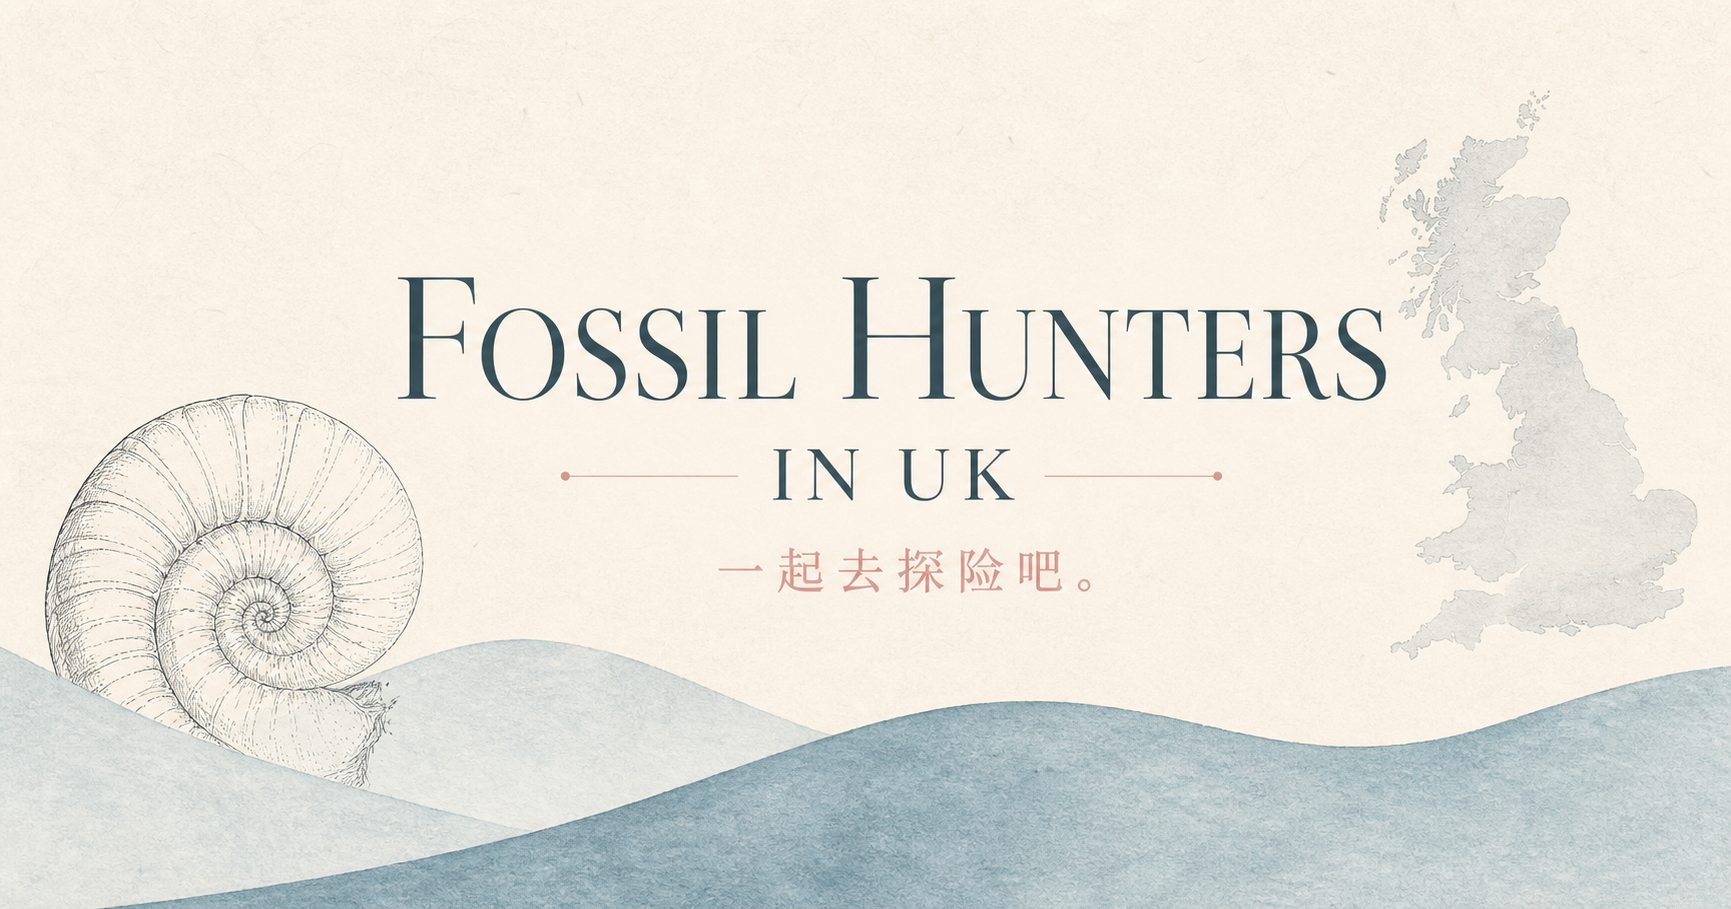
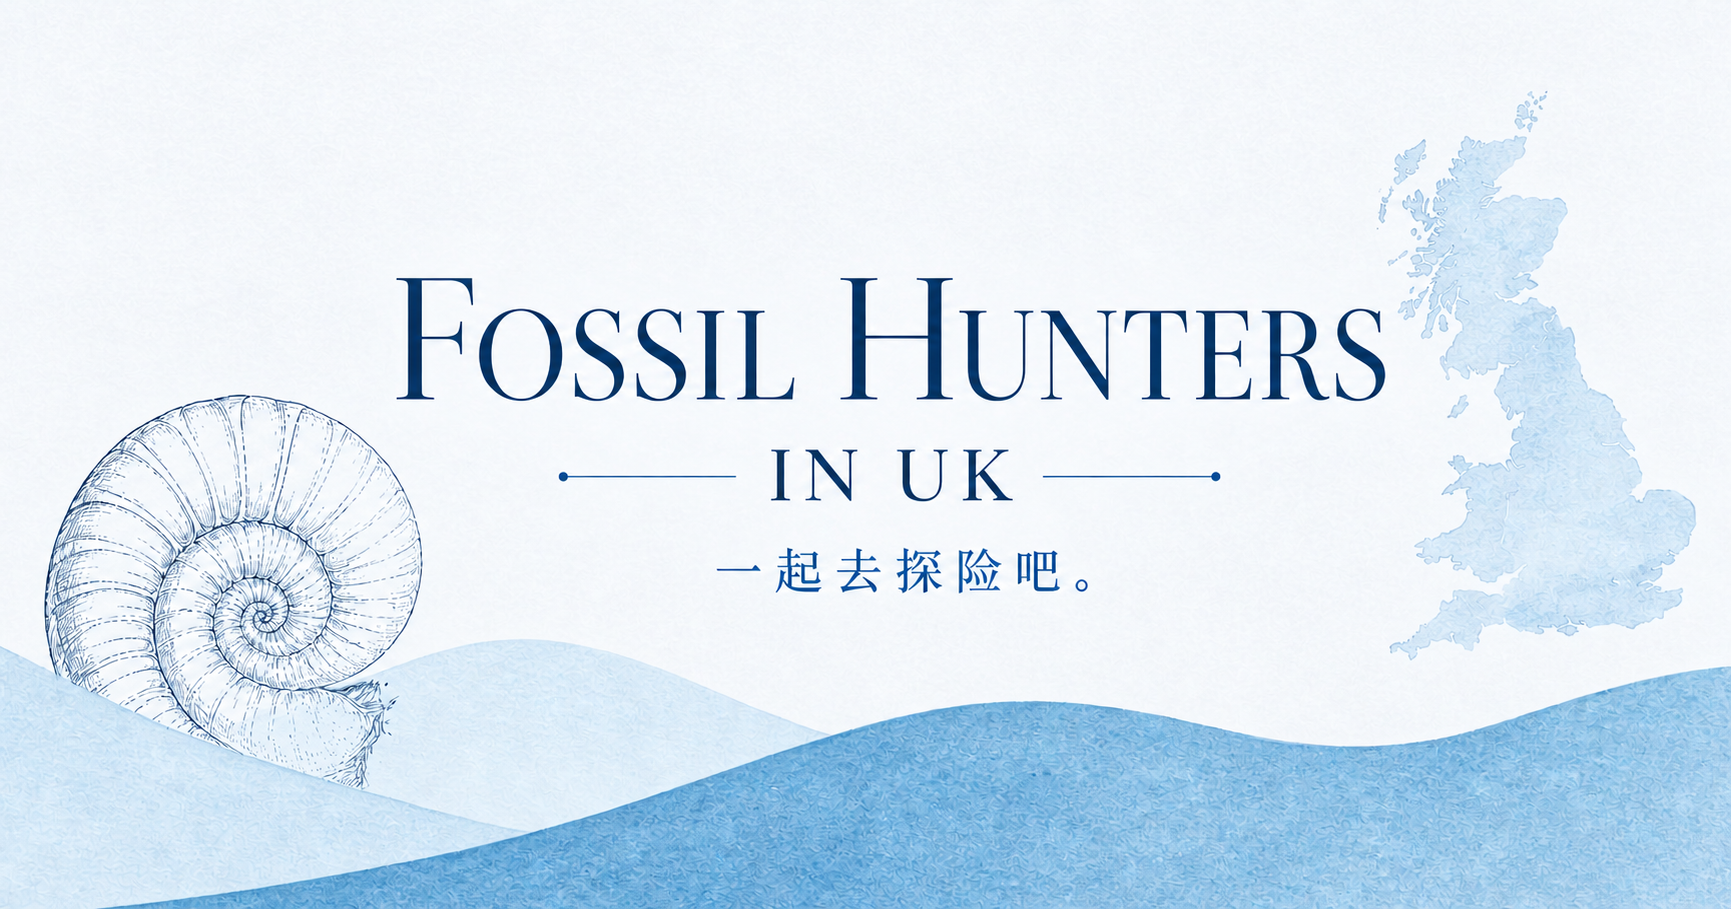
Switch site to blue and white palette

diff --git a/app/globals.css b/app/globals.css
@@ -7871,3 +7871,169 @@ input:focus-visible {
   .overview-title .fossil-title { font-size: 40px; }
   .eyebrow { margin-bottom: 12px; font-size: 9px; }
 }
+
+/* Blue-and-white field guide palette. */
+:root {
+  --paper: #f7fbff;
+  --paper-deep: #ffffff;
+  --ink: #173f67;
+  --ink-soft: #69839d;
+  --moss: #75acd4;
+  --sea: #e8f3fb;
+  --sea-deep: #bcdcf1;
+  --rust: #2f80c0;
+  --danger: #bd5f61;
+  --line: rgba(23, 63, 103, .16);
+}
+
+body {
+  background: #edf5fb;
+}
+
+.site-shell,
+.detail-view.detail-text-only,
+.museum-view {
+  background:
+    radial-gradient(circle at 18% 12%, rgba(23, 63, 103, .026) 0 1px, transparent 1.3px),
+    radial-gradient(circle at 74% 43%, rgba(47, 128, 192, .022) 0 1px, transparent 1.25px),
+    var(--paper);
+  background-size: 29px 31px, 37px 41px, auto;
+}
+
+.site-shell::before {
+  background:
+    repeating-linear-gradient(112deg, transparent 0 18px, rgba(23, 63, 103, .016) 18px 19px),
+    repeating-radial-gradient(circle at 20% 30%, rgba(23, 63, 103, .03) 0 .6px, transparent .8px 5px);
+}
+
+.topbar {
+  background: rgba(247, 251, 255, .94);
+}
+
+.alert-dot {
+  box-shadow: 0 0 0 4px rgba(47, 128, 192, .14);
+}
+
+.intro-screen::before {
+  background: #dceefa;
+}
+
+.intro-screen::after {
+  background: #acd2ea;
+}
+
+.intro-screen .dino-track {
+  background: linear-gradient(to bottom, transparent 61px, rgba(23, 63, 103, .075) 61px);
+}
+
+.intro-screen .dino-track::before {
+  background: rgba(23, 63, 103, .2);
+}
+
+.uk-map {
+  background:
+    linear-gradient(180deg, rgba(255, 255, 255, .42), transparent 46%),
+    var(--sea);
+}
+
+.uk-map::before,
+.uk-map::after {
+  border-color: rgba(23, 63, 103, .075);
+}
+
+.uk-silhouette {
+  filter: drop-shadow(0 14px 22px rgba(23, 63, 103, .12));
+}
+
+.quest-hud,
+.marker-card,
+.location-list,
+.detail-text-only .info-panel {
+  background: rgba(255, 255, 255, .96);
+  box-shadow: 0 16px 38px rgba(23, 63, 103, .1);
+}
+
+.london-route.down-right,
+.london-route.down-left,
+.marker-leader {
+  background: repeating-linear-gradient(90deg, rgba(47, 128, 192, .9) 0 4px, transparent 4px 8px);
+}
+
+.marker-pulse,
+.map-marker .marker-pulse {
+  border-color: rgba(47, 128, 192, .72);
+}
+
+.site-pixel-icon,
+.site-pixel-icon.compact,
+.pixel-fossil {
+  box-shadow: 0 8px 18px rgba(23, 63, 103, .1);
+}
+
+.location-list-hint:hover,
+.location-list-hint:focus-visible,
+.location-list-hint.is-open,
+.journey-time,
+.time-hero,
+.sssi-card,
+.geology-intro,
+.museum-progress-grid > div,
+.museum-region-head,
+.guide-panel-header,
+.guide-turn p,
+.guide-turn.user p {
+  background: var(--sea);
+}
+
+.section-title > span,
+.geology-units header > span,
+.museum-chip-row button:hover,
+.museum-chip-row button:focus-visible,
+.museum-chip-row button.active {
+  background: #e0f0fb;
+}
+
+.geology-units article,
+.geology-notes > div,
+.geology-notes aside,
+.geology-source,
+.finds-grid article,
+.safety-grid > div,
+.about-thanks,
+.museum-hero,
+.museum-tracker-copy,
+.museum-progress-grid,
+.museum-filters,
+.museum-category-note,
+.museum-region,
+.modal,
+.guide-panel,
+.guide-hover-line {
+  box-shadow: 0 12px 30px rgba(23, 63, 103, .07);
+}
+
+.museum-specimen.rarity-tier-bronze {
+  --museum-card-surface: linear-gradient(145deg, #ffffff, #e3f1fa);
+  border-color: #8bb8d7;
+}
+
+.museum-specimen.rarity-tier-silver {
+  --museum-card-surface: linear-gradient(145deg, #ffffff, #edf5fa);
+  border-color: #a2bccf;
+}
+
+.museum-specimen.rarity-tier-gold {
+  --museum-card-surface: linear-gradient(145deg, #ffffff, #d8ebf8);
+  border-color: #6da7cf;
+}
+
+.modal-backdrop {
+  background: rgba(23, 63, 103, .28);
+}
+
+@media (max-width: 720px) {
+  .location-list {
+    background: var(--paper-deep);
+    box-shadow: 0 -12px 38px rgba(23, 63, 103, .14);
+  }
+}
